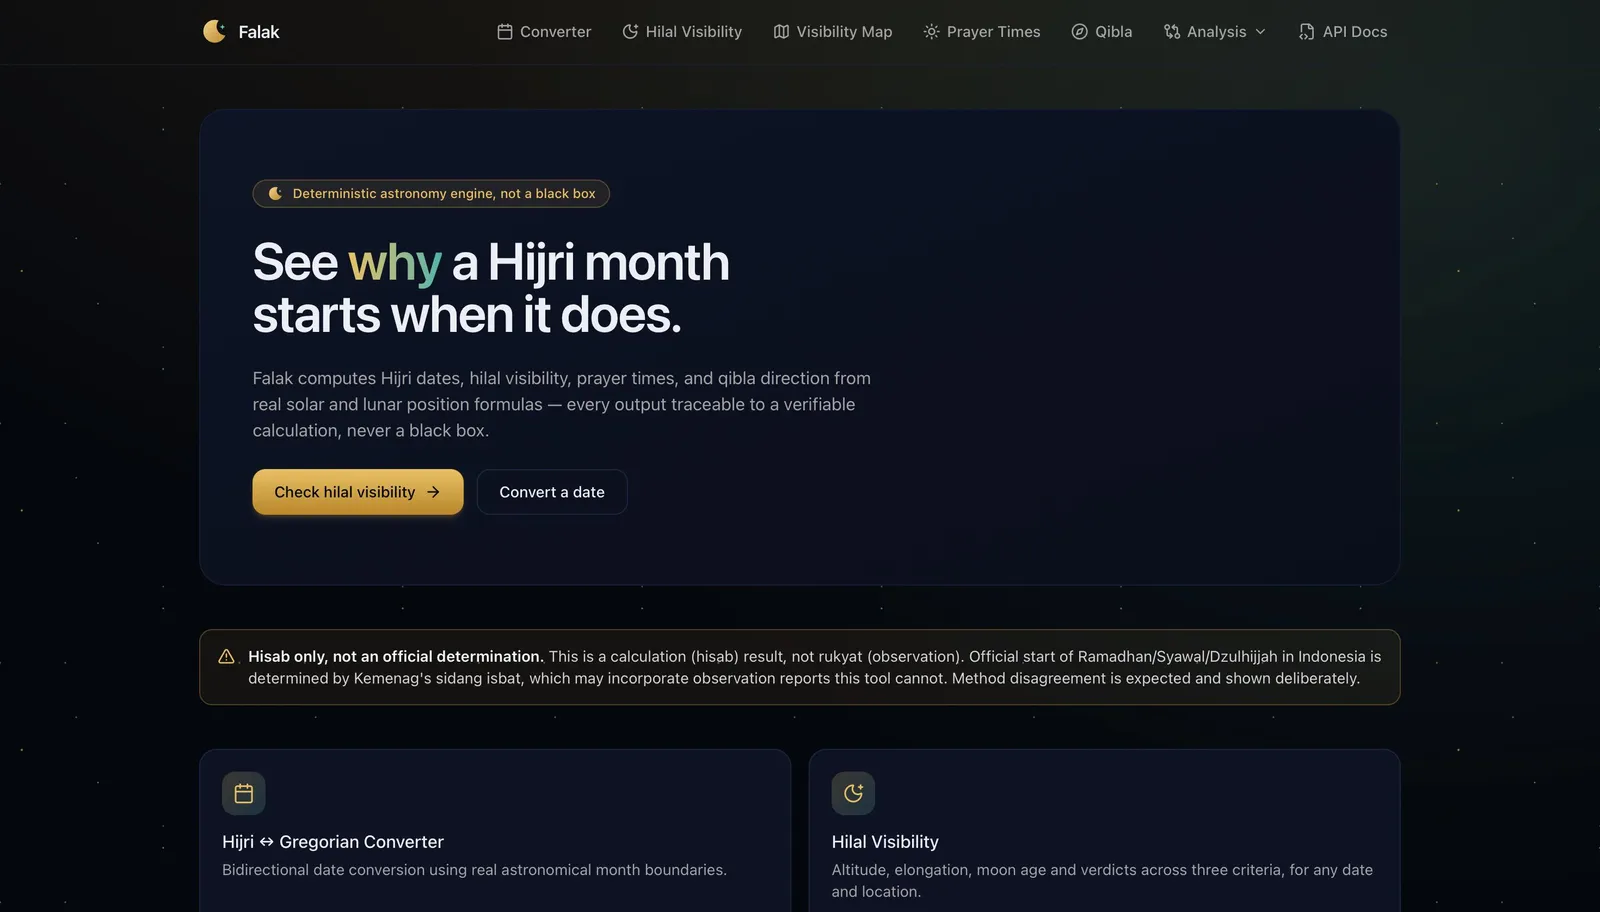
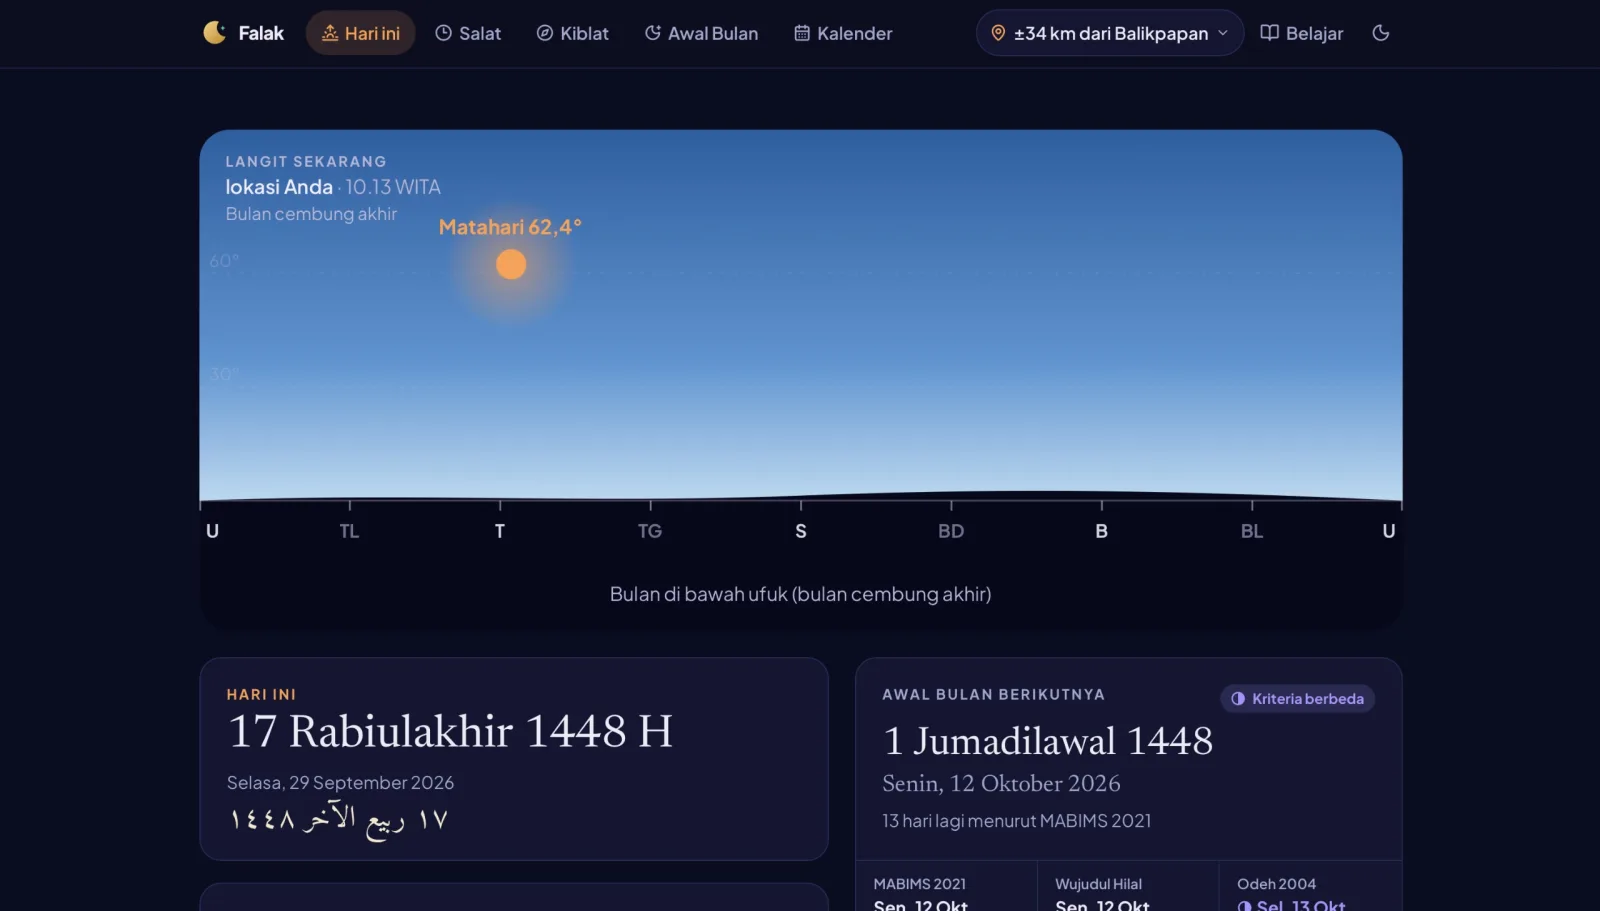
content(falak-visualizer): refresh screenshots, feature it at the front
Replaced the hero and all case-study screenshots with new captures
(converted to WebP within the repo's asset budget, same as every other
project image). Marked the project featured and added it to the front
of FEATURED_ORDER in lib/content.ts, so it now leads the home page's
Selected Work strip.

FEATURED_ORDER already held 9 entries and the home page renders exactly
9, so this pushes Quranlytics (previously last) out of the home strip;
it stays featured and still shows in its own case study and the Work
index. Flagging this since it's a side effect of a fixed-size curated
list, not something asked for directly.

diff --git a/lib/content.ts b/lib/content.ts
@@ -124,6 +124,7 @@ export function getAllProjects(): ProjectMeta[] {
 // alternates employer and problem-shape so the set opens strong. Any featured
 // project not named here falls back to after the listed ones, by `order`.
 const FEATURED_ORDER = [
+  'falak-visualizer', // indep · tool
   'aksara', // gov · workflow
   'jdih', // gov · workflow
   'lantara', // gov · workflow
